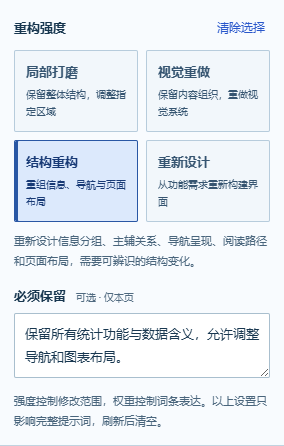
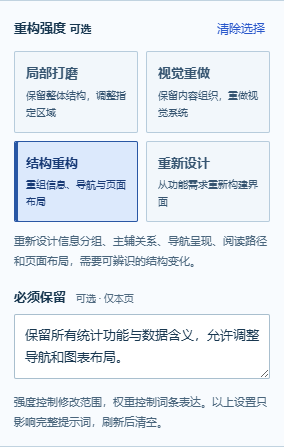
Make redesign intensity optional in exported prompts

diff --git a/public/index.html b/public/index.html
@@ -69,7 +69,7 @@
           <div id="draw-error" class="error-banner" role="alert" hidden></div>
           <div id="draw-warnings" class="warning-banner" role="status" hidden></div>
           <div class="results-stage"><nav id="dimension-index" class="dimension-index" aria-label="聚焦设计维度"></nav><div class="viewfinder" id="viewfinder" data-framing="overview" data-spacing="balanced"><div class="frame-caption"><span id="frame-caption">展板 / 八个维度</span><span id="sample-id">SAMPLE —</span></div><div id="measure-readout" class="measure-readout" role="status" hidden></div><div id="result-grid" class="result-grid" aria-live="polite"><div class="empty-state"><span data-icon="grid"></span><h3>正在读取本地词库</h3><p>马上开始你的第一次灵感采样。</p></div></div><div class="frame-footnote"><span>点击术语阅读说明；锁定保留整组。</span><span>提示词按权重排序，同档沿用展板顺序；收藏保留原始记录。</span></div></div></div>
-          <section class="output-panel" aria-labelledby="output-title"><div class="output-heading"><div><span class="section-index">03</span><h2 id="output-title">交给 agent</h2><span class="output-caption">THE DESIGN BRIEF</span></div><div class="output-controls"><div class="segmented" role="group" aria-label="输出格式"><button type="button" id="format-prompt" aria-pressed="true">完整提示词</button><button type="button" id="format-text" aria-pressed="false">纯词条</button><button type="button" id="format-json" aria-pressed="false">原始 JSON</button></div><button id="copy-output" class="icon-button" type="button" aria-label="复制当前格式的结果" disabled><span data-icon="copy"></span></button></div></div><div class="brief-task-field"><label for="brief-task">任务与硬约束 <span>可选 · 仅本页</span></label><textarea id="brief-task" rows="3" maxlength="8000" autocomplete="off" aria-describedby="brief-task-hint" placeholder="填写页面用途、所需功能、品牌限制与技术栈；也可留空。"></textarea><p id="brief-task-hint">不填则结合接收对话中的任务。完整提示词包含全部必选、实际落地、冲突询问与验收规则；任务及权重不保存到历史或收藏。</p></div><section class="brief-scope" aria-labelledby="reconstruction-title"><div class="brief-scope-heading"><h3 id="reconstruction-title">重构强度</h3><button id="reconstruction-clear" class="text-button" type="button" disabled>清除选择</button></div><div id="reconstruction-options" class="reconstruction-options" role="group" aria-labelledby="reconstruction-title" aria-describedby="reconstruction-hint"></div><p id="reconstruction-hint" role="status">未选择时结合接收对话；重构任务仍未明确强度，agent 会先询问。新建页面无需选择。</p><label for="brief-preserve">必须保留 <span>可选 · 仅本页</span></label><textarea id="brief-preserve" rows="2" maxlength="8000" autocomplete="off" aria-describedby="brief-preserve-hint" placeholder="填写必须保留的功能、内容、品牌、技术或界面形式；未指定的旧布局不会自动成为约束。"></textarea><p id="brief-preserve-hint">强度控制修改范围，权重控制词条表达。以上设置只影响完整提示词，刷新后清空。</p></section><pre id="output-preview" tabindex="0" aria-label="生成的提示词或原始结果">抽取后，可在这里查看和复制完整设计提示词。</pre><details class="agent-note"><summary>通过 HTTP 获取同一份灵感 <span aria-hidden="true">↗</span></summary><p>与网页共用词库、规则和记录。</p><code>POST /api/draw</code><pre>{"mode":"coordinated"}</pre><p>完整接口示例见项目 README。</p></details></section>
+          <section class="output-panel" aria-labelledby="output-title"><div class="output-heading"><div><span class="section-index">03</span><h2 id="output-title">交给 agent</h2><span class="output-caption">THE DESIGN BRIEF</span></div><div class="output-controls"><div class="segmented" role="group" aria-label="输出格式"><button type="button" id="format-prompt" aria-pressed="true">完整提示词</button><button type="button" id="format-text" aria-pressed="false">纯词条</button><button type="button" id="format-json" aria-pressed="false">原始 JSON</button></div><button id="copy-output" class="icon-button" type="button" aria-label="复制当前格式的结果" disabled><span data-icon="copy"></span></button></div></div><div class="brief-task-field"><label for="brief-task">任务与硬约束 <span>可选 · 仅本页</span></label><textarea id="brief-task" rows="3" maxlength="8000" autocomplete="off" aria-describedby="brief-task-hint" placeholder="填写页面用途、所需功能、品牌限制与技术栈；也可留空。"></textarea><p id="brief-task-hint">不填则结合接收对话中的任务。完整提示词包含全部必选、实际落地、冲突询问与验收规则；任务及权重不保存到历史或收藏。</p></div><section class="brief-scope" aria-labelledby="reconstruction-title"><div class="brief-scope-heading"><h3 id="reconstruction-title">重构强度 <small>可选</small></h3><button id="reconstruction-clear" class="text-button" type="button" disabled>清除选择</button></div><div id="reconstruction-options" class="reconstruction-options" role="group" aria-labelledby="reconstruction-title" aria-describedby="reconstruction-hint"></div><p id="reconstruction-hint" role="status">可选。未选择时，复制内容不包含重构强度及档位规则；按原始任务执行。</p><label for="brief-preserve">必须保留 <span>可选 · 仅本页</span></label><textarea id="brief-preserve" rows="2" maxlength="8000" autocomplete="off" aria-describedby="brief-preserve-hint" placeholder="填写必须保留的功能、内容、品牌、技术或界面形式；未指定的旧布局不会自动成为约束。"></textarea><p id="brief-preserve-hint">强度控制修改范围，权重控制词条表达。以上设置只影响完整提示词，刷新后清空。</p></section><pre id="output-preview" tabindex="0" aria-label="生成的提示词或原始结果">抽取后，可在这里查看和复制完整设计提示词。</pre><details class="agent-note"><summary>通过 HTTP 获取同一份灵感 <span aria-hidden="true">↗</span></summary><p>与网页共用词库、规则和记录。</p><code>POST /api/draw</code><pre>{"mode":"coordinated"}</pre><p>完整接口示例见项目 README。</p></details></section>
         </div>
       </div>
     </section>

diff --git a/public/app.js b/public/app.js
@@ -472,7 +472,7 @@ function setReconstruction(value) {
   state.brief.reconstruction = value;
   $$('[data-reconstruction]').forEach(button => button.setAttribute('aria-pressed', String(button.dataset.reconstruction === value)));
   $('#reconstruction-clear').disabled = !value;
-  $('#reconstruction-hint').textContent = reconstructionLevels.find(level => level.id === value)?.rule ?? '未选择时结合接收对话；重构任务仍未明确强度，agent 会先询问。新建页面无需选择。';
+  $('#reconstruction-hint').textContent = reconstructionLevels.find(level => level.id === value)?.rule ?? '可选。未选择时，复制内容不包含重构强度及档位规则；按原始任务执行。';
   renderOutput();
 }
 on('#reconstruction-options', 'click', event => { const button = event.target.closest('[data-reconstruction]'); if (button) setReconstruction(button.dataset.reconstruction); });

diff --git a/docs/plugin-validation.md b/docs/plugin-validation.md
@@ -1,6 +1,6 @@
 # 插件验证范围
 
-插件与项目版本为 1.6.0；HTTP API v4、种子版本 4、1,424 条词库及用户数据格式保持兼容。
+插件与项目版本为 1.6.1；HTTP API v4、种子版本 4、1,424 条词库及用户数据格式保持兼容。
 
 ## 自动验证
 
@@ -8,7 +8,7 @@
 
 1. 从主项目源码生成插件运行副本，将网页共用执行规则嵌入 Skill，再逐文件比较内容。
 2. 生成 ZIP 并解压到临时目录，以解压版作为独立 CLI 的测试来源。
-3. 运行 38 项 Node 内置测试，包括原有 26 项、6 项插件测试及 6 项提示词编排测试。文本输出检查全部名称与说明保留、内部 ID 和抽取元数据省略、设计数值不丢失、原始快照不变，并验证四档强度仅展开所选要求、保留范围原样带入和未指定时不默认选档。
+3. 运行 38 项 Node 内置测试，包括原有 26 项、6 项插件测试及 6 项提示词编排测试。文本输出检查全部名称与说明保留、内部 ID 和抽取元数据省略、设计数值不丢失、原始快照不变，并验证四档强度仅展开所选要求、保留范围原样带入和未指定或清除后完全省略强度规则，必须保留独立生效。
 4. 检查所有插件文件前后 SHA-256，确认执行过程没有写入安装目录；子进程设置超时，测试服务使用临时数据并关闭。
 5. 检查成功后才替换交付 ZIP，清理临时目录，打印 `DONE`。
 
@@ -23,9 +23,9 @@
 | 用户请求 | 应采取的路径 | 已核对的边界 |
 | --- | --- | --- |
 | “按结构重构当前前端，保留业务功能” | 读取项目及现状 → 使用整组词条 → 重组信息、导航与布局 → 实现并对照原页面检查。 | 用户已经指定强度，直接执行；保留功能能力与数据含义，不自动保留原有侧栏和卡片组合。 |
-| “优化这个页面”，未说明重构强度 | 先确认局部打磨、视觉重做、结构重构或重新设计；可继续读取现状和需求。 | 不自行选择保守或激进档位，不将未答复视为同意；新建页面不强制选择重构强度。 |
+| “优化这个页面”，未选择重构强度 | 按原始任务与明确约束执行，不额外套用四档规则。 | 网页不复制强度栏目与档位规则；Skill 不强制选择档位，只有任务范围确有必要澄清时才询问。 |
 | “只给三个方案，不改代码” | 按需查询与抽取，为三个方向分别给出配色、布局、字阶与应用区域。 | 只输出设计简报，代码不修改；不因 Skill 的默认实现工作流越过用户范围。 |
-| “必须保留品牌蓝 #1246A0、现有字体与 React” | 明确重构强度，在品牌、技术及保留范围内编排；词条确实无法兼容时主动询问。 | 明确的品牌、技术与局部范围保留，不能用随机结果覆盖或静默丢弃冲突项。 |
+| “必须保留品牌蓝 #1246A0、现有字体与 React” | 在品牌、技术及保留范围内编排；已选择强度时同时遵循，词条确实无法兼容时主动询问。 | 明确的品牌、技术与局部范围保留，不能用随机结果覆盖或静默丢弃冲突项。 |
 | “液态金属会影响清晰，所以删掉” | 尝试把效果放在选中徽记或限定区域，保留可辨识的反射与流体形态。 | 清晰度是实现约束，不能单独作为删除理由；只放“液态金属”文字不合格。 |
 | “可拖拽画布只放一个拖拽图标” | 验证真实拖动改变视图或对象位置，并提供等效键盘操作。 | 图标、文案、CSS 类名都不能作为实际交互完成证据。 |
 | “多个主导风格同时出现” | 分配到不同区域、层级或状态，逐条保留可识别表达。 | 可以兼容时继续实现，不仅因为难做就要求用户删词。 |

diff --git a/plugins/formlex/skills/formlex-design/SKILL.md b/plugins/formlex/skills/formlex-design/SKILL.md
@@ -5,7 +5,7 @@ description: "使用 FormLex 的专业美术词库探索、设计或重构前端
 
 # FormLex 前端设计
 
-将完整的设计输入落实到前端，权重决定表现强弱。已有页面按用户指定的重构强度实施；用户明确的品牌、技术、业务功能与修改范围优先。
+将完整的设计输入落实到前端，权重决定表现强弱。按用户任务实施，只有用户选定重构强度时才应用对应档位；用户明确的品牌、技术、业务功能与修改范围优先。
 
 ## 获取并保留完整输入
 
@@ -31,7 +31,7 @@ description: "使用 FormLex 的专业美术词库探索、设计或重构前端
 结构重构：重新设计信息分组、主辅关系、导航呈现、阅读路径和页面布局，需要可辨识的结构变化。
 重新设计：以现有页面提供的功能和内容为依据，从任务与设计词条重新构建界面；不默认沿用原有页面骨架或组件组合。
 
-重构强度由用户决定。对话或提示词已经明确时直接执行，不重复确认；仍未明确时先询问，不自行选择档位或降低已选强度。新建页面任务按用户需求设计，无需套用重构强度。
+重构强度是可选设置，由用户决定。用户已经选择时按对应范围直接执行，不重复确认或降低已选强度；未选择时按原始任务与明确约束执行，不强制选择档位，也不额外套用强度要求。
 
 保留功能能力、数据含义和用户明确的品牌、技术及界面约束。仅将用户明确指定的界面形式列为必须保留；已有布局、侧栏、卡片组合或阅读顺序不因已经存在就自动受到保护。
 
@@ -52,8 +52,6 @@ description: "使用 FormLex 的专业美术词库探索、设计或重构前端
 按用户任务判断交付范围：要求构建、修改或重构时完成代码与效果检查，不停在设计简报；只要灵感或方案时仅输出方案，不修改代码。保留业务功能、内容含义及用户明确的品牌、技术和范围约束。
 
 先按页面用途确定核心信息、主要操作与辅助内容的优先级，再分配设计词条。主导词条优先服务真正重要的信息和操作，重点词条强化其相关内容；不能因为次要统计、贴纸或角落更方便制作效果，就把主导表达分配给它们，而让核心内容停留在弱层级。遵循用户明确指定的作用范围。
-
-按用户指定的重构强度安排设计投入，先确定内容组织与操作方式，再安排材质和装饰；实现变化须符合所选强度与必须保留范围。
 
 实现前逐条安排「词条 → 应用区域或状态 → 可感知特征 → 完成标准」。主次表示表达强弱，不表示是否需要实现；多个风格或效果可分配到不同区域、层级与状态。先验证困难的结构和交互，再完成内容与视觉修饰。
 

diff --git a/scripts/formlex-design.template.md b/scripts/formlex-design.template.md
@@ -5,7 +5,7 @@ description: "使用 FormLex 的专业美术词库探索、设计或重构前端
 
 # FormLex 前端设计
 
-将完整的设计输入落实到前端，权重决定表现强弱。已有页面按用户指定的重构强度实施；用户明确的品牌、技术、业务功能与修改范围优先。
+将完整的设计输入落实到前端，权重决定表现强弱。按用户任务实施，只有用户选定重构强度时才应用对应档位；用户明确的品牌、技术、业务功能与修改范围优先。
 
 ## 获取并保留完整输入
 
